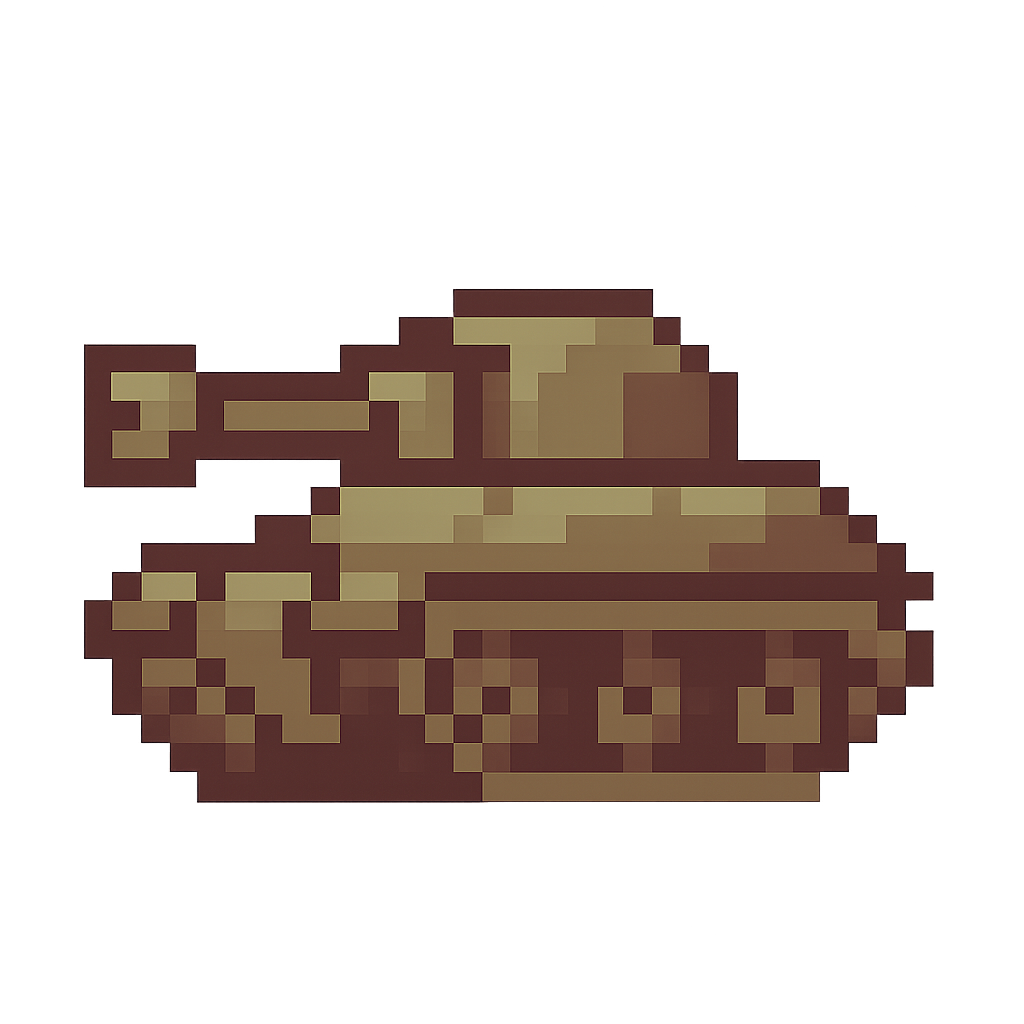
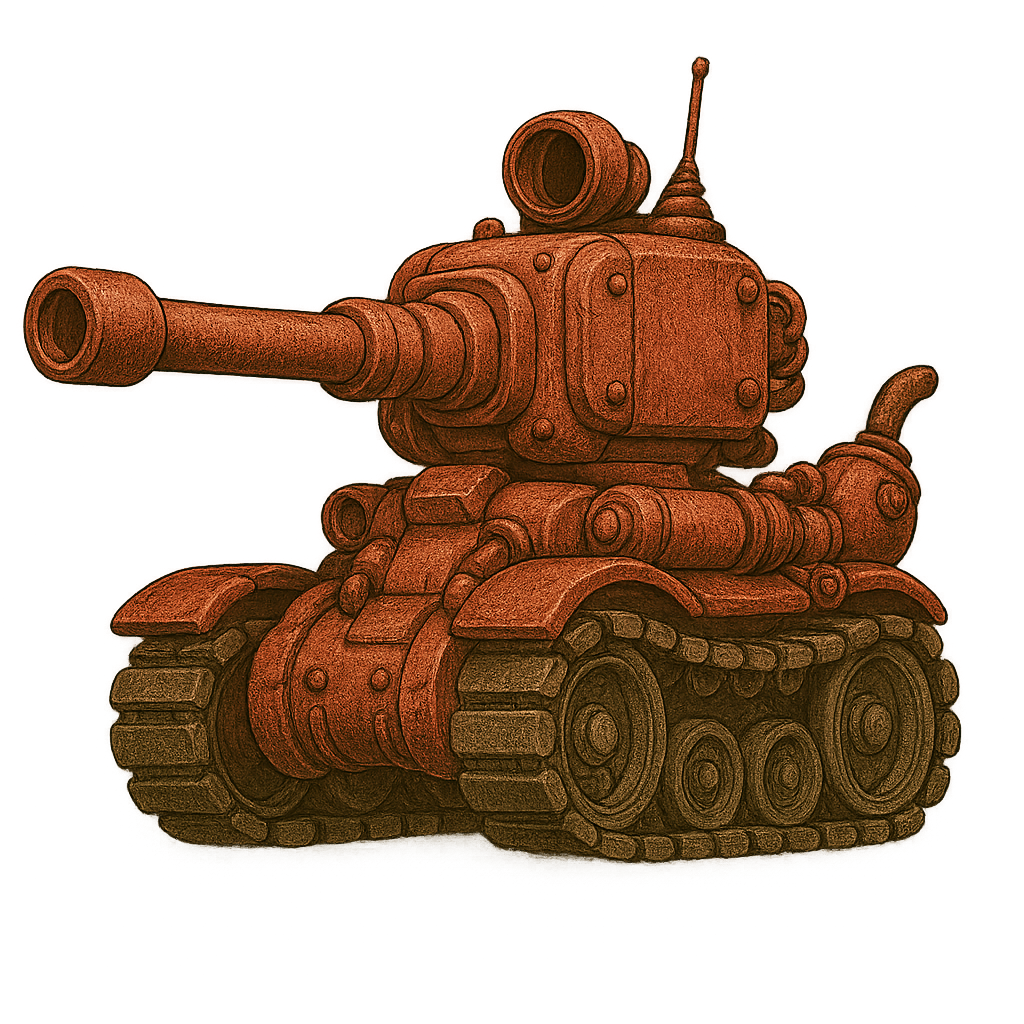
New tank graphics, scaling enemy size

diff --git a/src/components/TankDisplay.jsx b/src/components/TankDisplay.jsx
@@ -6,48 +6,42 @@ import enemyImg from "/enemy.png";
 export default function TankDisplay({ entities = [], type, firingTankId, damagedId }) {
   return (
     <div className="flex flex-col items-center gap-3">
-      {entities.map((entity) => {
-        const isFiring = firingTankId === (type === "player" ? entity.id : entity.id + 100);
-        const isDamaged =
-          type === "enemy"
-            ? damagedId === -1 || damagedId === entity.id // ✅ Support airstrike flash
-            : damagedId === entity.id;
-
-        return (
-          <div key={entity.id} className="flex flex-col items-center">
-            <img
-              src={type === "player" ? tankImg : enemyImg}
-              className={`w-24 ${
-                isFiring ? "shake" : ""
-              } ${isDamaged ? "glow-red shake" : ""}`}
-              alt={type === "player" ? `Tank ${entity.id}` : entity.name}
-            />
-            <div className="text-sm text-center mt-1 w-28">
-              <p>
-                {type === "player"
-                  ? `Tank ${entity.id} (L${entity.level ?? 1})`
-                  : entity.name}
-              </p>
-              <div className="w-24 h-2 bg-gray-700 rounded overflow-hidden my-1">
-                <div
-                  className={type === "player" ? "bg-green-500 h-full" : "bg-red-500 h-full"}
-                  style={{
-                    width: `${(entity.hp / entity.maxHp) * 100}%`,
-                  }}
-                ></div>
-              </div>
-              <p className="text-xs">
-                HP: {entity.hp} / {entity.maxHp}
-              </p>
-              {type === "player" && (
-                <p className="text-xs text-yellow-300">
-                  🔫:{entity.atk} 🛡:{entity.def} 🎖:{entity.exp}/{entity.expToNext}
-                </p>
-              )}
+      {entities.map((entity) => (
+        <div key={entity.id} className="flex flex-col items-center">
+          <img
+            src={type === "player" ? tankImg : enemyImg}
+            className={`${
+              type === "enemy" && entity.type === "brute" ? "w-32" : "w-24"
+            } ${
+              firingTankId === (type === "player" ? entity.id : entity.id + 100) ? "shake" : ""
+            } ${damagedId === entity.id ? "glow-red shake" : ""}`}
+            alt={type === "player" ? `Tank ${entity.id}` : entity.name}
+          />
+          <div className="text-sm text-center mt-1 w-28">
+            <p>
+              {type === "player"
+                ? `Tank ${entity.id} (L${entity.level ?? 1})`
+                : entity.name}
+            </p>
+            <div className="w-24 h-2 bg-gray-700 rounded overflow-hidden my-1">
+              <div
+                className={type === "player" ? "bg-green-500 h-full" : "bg-red-500 h-full"}
+                style={{
+                  width: `${(entity.hp / entity.maxHp) * 100}%`,
+                }}
+              ></div>
             </div>
+            <p className="text-xs">
+              HP: {entity.hp} / {entity.maxHp}
+            </p>
+            {type === "player" && (
+              <p className="text-xs text-yellow-300">
+                🔫:{entity.atk} 🛡:{entity.def} 🎖:{entity.exp}/{entity.expToNext}
+              </p>
+            )}
           </div>
-        );
-      })}
+        </div>
+      ))}
     </div>
   );
 }
